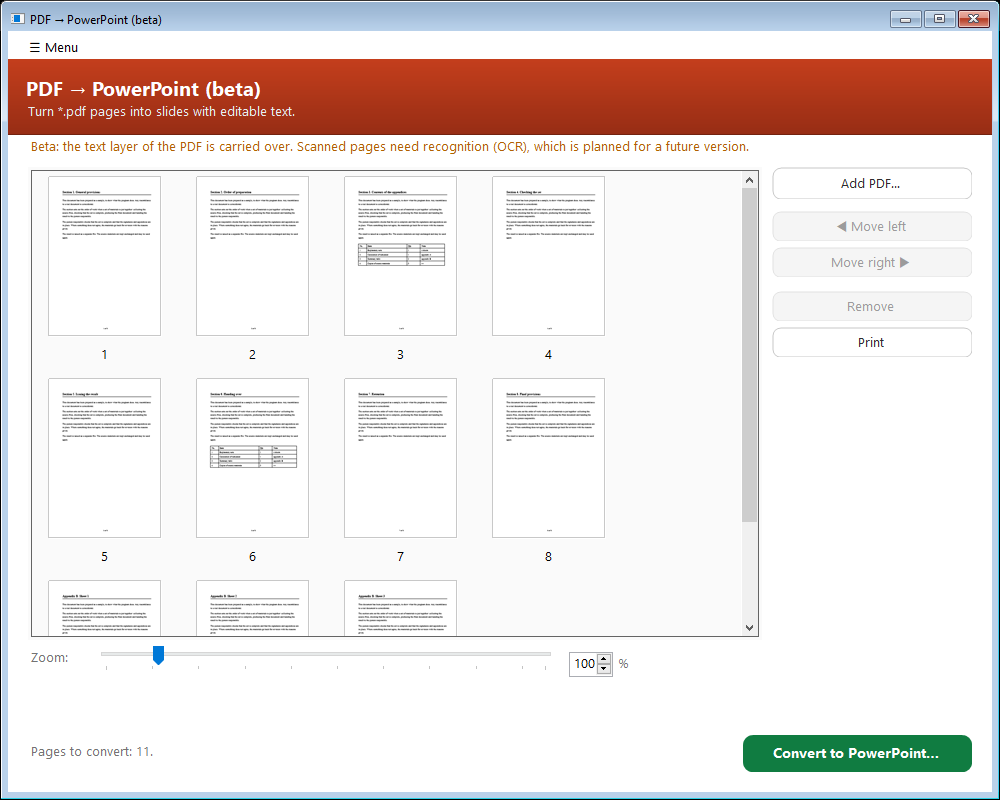
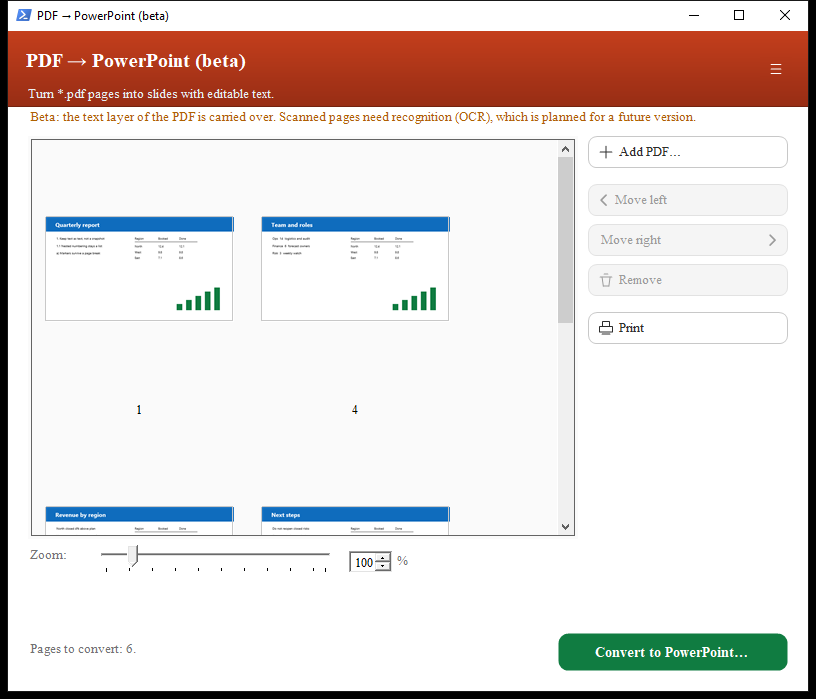
README shots: newspaper columns, nested list, ruled table
Sample PDFs for PDF → Word and PDF → PowerPoint are no longer a single
column of filler. The shot script draws three columns, a results table
and a nested numbered list so the thumbnails match what the converters
are for. English UI and generated samples only.

diff --git a/README.md b/README.md
@@ -104,8 +104,8 @@ A page workshop over one document. **Assemble** what you need — open a PDF and
 |:--:|:--:|
 | <img src="docs/screenshots/hub-main.png" width="400" alt="Start screen"><br>**Start screen** — pick a section | <img src="docs/screenshots/hub.png" width="400" alt="PDF tools"><br>**PDF tools** — six tools in the section |
 | <img src="docs/screenshots/pdf-merge.png" width="400" alt="Merge PDF"><br>**Merge PDF** — thumbnails & four levels of compression | <img src="docs/screenshots/pdf-split.png" width="400" alt="Split PDF"><br>**Split PDF** — four modes, ready page ranges |
-| <img src="docs/screenshots/pdf-ops.png" width="400" alt="More operations"><br>**More operations** — convert, extract, print, properties | <img src="docs/screenshots/pdf-word.png" width="400" alt="PDF to Word"><br>**PDF → Word** — text & tables into an editable `.docx` |
-| <img src="docs/screenshots/pdf-pptx.png" width="400" alt="PDF to PowerPoint"><br>**PDF → PowerPoint** — pages into slides with editable text | <img src="docs/screenshots/excel.png" width="400" alt="Merge Excel"><br>**Merge Excel** — sheets of a folder into one digest |
+| <img src="docs/screenshots/pdf-ops.png" width="400" alt="More operations"><br>**More operations** — convert, extract, print, properties | <img src="docs/screenshots/pdf-word.png" width="400" alt="PDF to Word with newspaper columns, nested list and table"><br>**PDF → Word** — columns, nested lists and tables into an editable `.docx` |
+| <img src="docs/screenshots/pdf-pptx.png" width="400" alt="PDF to PowerPoint with lists, table and chart"><br>**PDF → PowerPoint** — those pages as slides with real text, tables and chart bars | <img src="docs/screenshots/excel.png" width="400" alt="Merge Excel"><br>**Merge Excel** — sheets of a folder into one digest |
 | <img src="docs/screenshots/review.png" width="400" alt="Compare PDF beta review"><br>**Compare PDF (beta) review** — earlier/left removals and later/right additions |  |
 
 ## ⬇ Download
